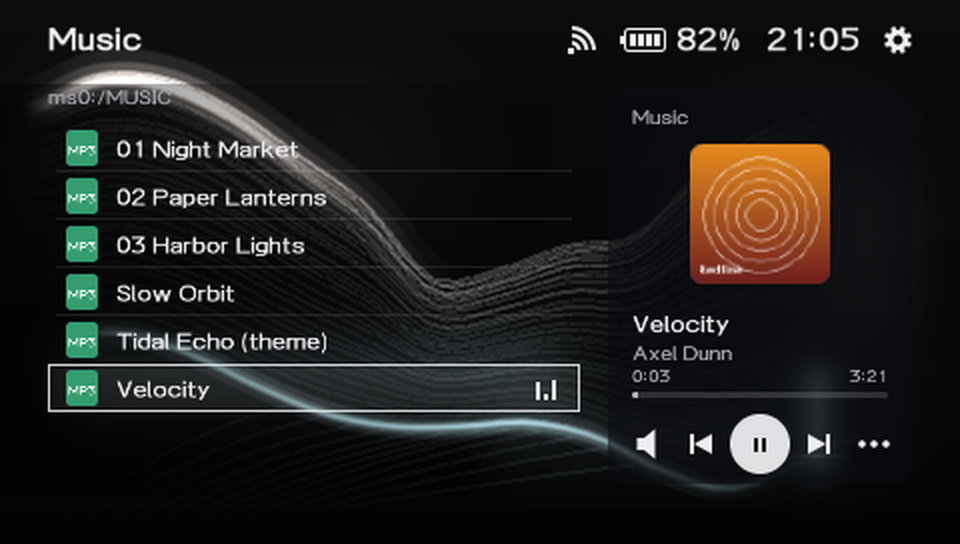
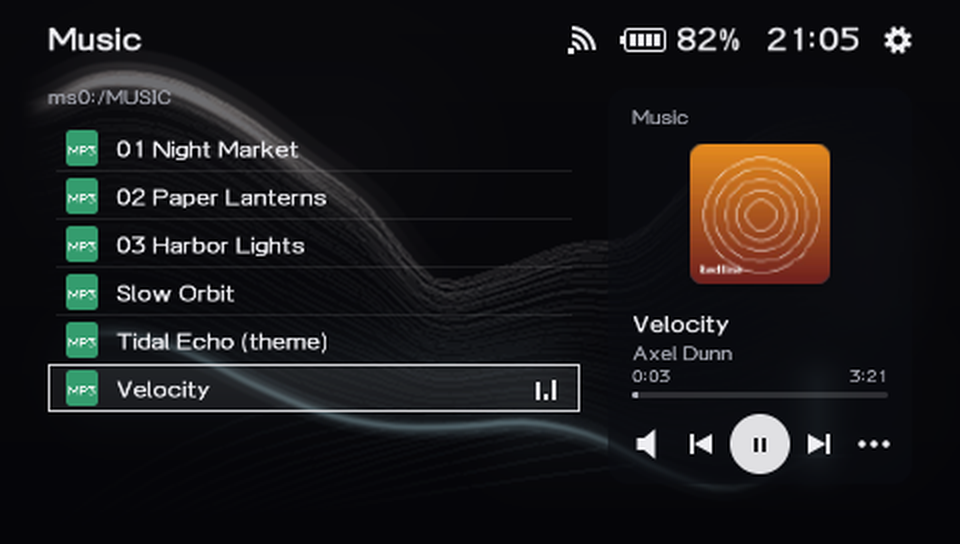
The background goes dark behind an opened card: the whole screen for Music, a little for the Library, bright on the cards
On the cards (Games, Media, and the Library card) the background has its full brightness. When the Music card is opened the whole screen behind it
is darkened, from the top to the bottom (it was only from the folder name down, as a shade behind the list); when the Library card is opened its
background goes darker too (less: its lines would be gone). It fades in a quarter of a second and out again when the card is closed. The top bar
stays bright. README pictures of the Library, the Library with folders and Music are taken again.

Claude-Session: https://claude.ai/code/session_01Ggf7fWbR68TNvgHPZcT9ke

diff --git a/src/ui.c b/src/ui.c
@@ -63,6 +63,9 @@
 #define BG_DELAY   0.18f /* stå still så här länge innan bakgrunden laddas */
 #define BG_FADE    3.5f  /* övertoningshastighet (1/s) */
 #define BG_DIP     8.0f  /* the dip to black while the background under the pictures is swapped (1/s: 0.125 s down, 0.125 s up) */
+#define DIM_SPEED 4.0f /* how fast the background goes dark behind an opened card (Library, Music) and bright again: 1 / 4 s */
+#define DIM_ALPHA_MUSIC 150   /* how dark the open Music screen is: the colour (8, 8, 12) at this strength of 255, as the old Music tab had it */
+#define DIM_ALPHA_LIBRARY 100 /* ... and the open Library: its background is made of fine lines on black, which a stronger darkening would take away altogether */
 #define LAUNCH_LEN 0.45f
 
 #define CLEAR_COLOR RGBA(10, 10, 14, 255)
@@ -1160,6 +1163,9 @@ int ui_update(Ui *ui, const UiInput *in, float dt)
     ui->tab_anim = clampf(ui->tab_anim + dt * 4.0f, 0, 1);
     if (ui->tab_anim >= 1)
         ui->lib_calm = 0; /* (a later change of the Library's cards, a new sort, comes up out of the dark as before) */
+    if (ui->tab == TAB_LIBRARY || ui->tab == TAB_MUSIC)
+        ui->dim_alpha = ui->tab == TAB_MUSIC ? DIM_ALPHA_MUSIC : DIM_ALPHA_LIBRARY;
+    ui->dim = clampf(ui->dim + (ui->tab == TAB_LIBRARY || ui->tab == TAB_MUSIC ? 1 : -1) * dt * DIM_SPEED, 0, 1); /* the background goes dark when a card is opened, and bright again when it is closed */
     if (ui->toast_time > 0)
         ui->toast_time -= dt;
     sort_by_size_again(ui, dt);
@@ -1420,6 +1426,15 @@ int ui_update(Ui *ui, const UiInput *in, float dt)
 }
 
 /* --- ritning --- */
+
+/* A card that is opened (the Library card, the Music card) darkens the whole background behind it, all the way from the top of the screen: the cards of Games and Media have the
+ * background at full brightness, the screen that opens from them has it dark (so that the lines of the background do not run across the names), and it goes dark and bright again
+ * in a quarter of a second. The top bar is drawn over it (the tabs, the clock, the battery and the cog wheel stay bright). */
+static void draw_dim(const Ui *ui)
+{
+    if (ui->dim > 0)
+        gfx_rect(0, 0, SCREEN_W, SCREEN_H, RGBA(8, 8, 12, (int)(ui->dim_alpha * smooth(ui->dim))));
+}
 
 static void draw_background(Ui *ui)
 {
@@ -2126,6 +2141,7 @@ void ui_draw(Ui *ui)
 {
     gfx_begin(CLEAR_COLOR);
     draw_background(ui);
+    draw_dim(ui);
     draw_top_bar(ui);
     if (ui->tab == TAB_MUSIC) {
         draw_music(ui);

diff --git a/src/ui.h b/src/ui.h
@@ -74,6 +74,8 @@ typedef struct {
     int bg_lib;          /* 1: under the pictures lies the Library's own background (Library card of Games, the Library), 0: the theme's surface */
     float bg_dip;        /* 0→1→0: a dip to black while the one is swapped for the other (only one of the two fits in video memory at a time) */
     int lib_calm;        /* 1: the Library opened on its own background already (from its card): nothing comes up out of the dark */
+    float dim;           /* 0→1: how dark the background is behind a screen that was opened from a card (the Library, Music): 0 on the cards themselves (Games, Media, the Library card), 1 in the open screen */
+    int dim_alpha;       /* how dark "1" is: of the screen that was opened last (kept while it fades out again) */
     float still;         /* sekunder sedan markeringen flyttades */
 
     /* titeln bredvid valt kort, anpassad till bredden */

diff --git a/src/musicui.c b/src/musicui.c
@@ -748,7 +748,6 @@ void musicui_mini_draw(MusicUi *m)
 
 void musicui_draw(MusicUi *m, float a, float slide)
 {
-    gfx_gradient_h(0, 42, 312, 206, RGBA(0, 0, 0, (int)(110 * a)), RGBA(0, 0, 0, 0)); /* a shade behind the list: the lines of the background do not cross the names */
     draw_list(m, a, slide);
     draw_player(m, PANEL_X, PANEL_Y + slide, a, m->focus && !m->popup);
     draw_popup(m);

diff --git a/docs/DEVELOPER-NOTES.md b/docs/DEVELOPER-NOTES.md
@@ -24,6 +24,11 @@ into psp5 instead of the XMB.
 
 The changes after 1.2.0 are noted here; the list for users is under *Unreleased* in `CHANGELOG.md`. When the next version is released, this section becomes *Version x.y.z* and a new *Unreleased* one is put above it.
 
+- **The background goes dark behind an opened card** (`ui.c` `ui->dim`, `ui->dim_alpha`, `draw_dim()`, `DIM_SPEED`, `DIM_ALPHA_MUSIC`, `DIM_ALPHA_LIBRARY`; `musicui.c` `musicui_draw()`; on request: "make the darkening happen behind the whole open Music card instead of just from ms0:/Music down ... for Library card make it so that the background also is full brightness at the beginning and then turns darker when Library card is opened")
+  - *Before:* the Music screen had a shade behind its list only (`gfx_gradient_h(0, 42, 312, 206, ...)`: from the line with the folder name down, alpha 110 fading to 0 at x 312), so the lamp's light ran bright across the top of the screen; the Library was not darkened at all.
+  - *Now:* `ui->dim` goes 0 → 1 at 4 a second (`DIM_SPEED`: 15 frames) while the tab is `TAB_LIBRARY` or `TAB_MUSIC`, and back to 0 otherwise; `draw_dim()` lays one rectangle over the whole screen, the colour (8, 8, 12), alpha `dim_alpha * smooth(dim)` (150 for Music, the value the old Music tab had; 100 for the Library, whose lines on black would be gone under more), after the background and before the top bar, so the tabs, the clock and the battery stay bright. `dim_alpha` is set from the screen that is open and kept while it fades out. The shade in `musicui_draw()` is gone. The cards of Games and Media and the Library card of Games have the background as it was, at full brightness; the first update of a press still has the old tab, so the darkening moves from the second update on. One more full-screen rectangle in the two open screens (one draw call; the old Music tab had one too).
+  - *Tests* (private): `ui/menu_test.c` new block "the darkening behind an opened card" (in the Music-only part too: 225 checks there): the Media tab and the Library card have the background exactly as `theme_backdrop_media` / `theme_backdrop_library` draw it (3 themes), the opened Music screen has it under exactly 150 / 255 of (8, 8, 12) over the whole left strip from y 0 to 271 (also half way through the fade: 75 / 255), the opened Library 100 / 255, the speed (4 a second, 15 frames, never past 0 or 1, the strength kept while it fades out), and the Library card at full brightness again afterwards; `STRIP_DIFF` and the "Library shows its background when it has settled" check expect the darkening (`DIM_A()`). *Mutation checks* of the new lines of `ui.c` (38 changes): 35 caught; the 3 that survive change nothing (a rectangle that starts at x -1, a strength of 0 drawn). The README pictures `library.png`, `library-folders.png` and `music.png` were taken again.
+
 - **Media tab, the Music screen, the player and the sound button** (`ui.c`, `ui.h`, `musicui.c` / `musicui.h` (new), `music.c` / `music.h` (rewritten), `main.c`, `osd.c`, `loader.c`, `theme.c`, `icons.c`, `gfx.c`, `lang.c`, `home.h`; on request, with three pictures of the maintainer's: "Media.png" (the background), "Music Icon.png" (the note) and "Music Player.png" (the player))
   - *The tabs.* `TAB_GAMES, TAB_MEDIA, TAB_LIBRARY, TAB_MUSIC`. The top bar has two tabs (Games, Media); the Library and Music are *screens* (`is_screen()`: the top bar shows their name and the cog wheel, L / R do nothing, ○ goes back). The Media tab is a row of cards like Games' (`row_tab`: the card, the *Open* button under it, the name next to it) with one card, `HOME_MEDIA_MUSIC` (-4: a negative id, which the loader of the saved Home ignores). ✕ on it opens `TAB_MUSIC`; ○ on the Music screen from the top goes back to `TAB_MEDIA`.
   - *The background.* `theme.c` `med_scene()` draws it once into the video-memory snapshot (kind 2 of `scene_ready()`, beside the surface (0) and the Library (1); `Ui.bg_lib` is 0 / 1 / 2): the curves `MED_TOP[]` and `MED_BOT[]` were measured from the reference picture, the colours come from the theme (`Theme.glow` for the lamp and the high light, `Theme.haze`, `Theme.beam` for the line), as the Library's do. The Media tab and the Music screen share it (no dip between them: `lib_calm`). The reference is only a stylization here: the mock mixes colours additively by alpha, so what the PSP's blending gives was not seen.

diff --git a/CHANGELOG.md b/CHANGELOG.md
@@ -21,7 +21,10 @@ Newest first. Changes that are not in a release yet are under *Unreleased*.
   the PSP's own music format, through the library of the firmware). A file that cannot be played is skipped. **Not in yet: AAC (`.m4a`, `.aac`) and WMA** (the firmware has an AAC decoder, but it can't be used safely without a PSP to try it on), and Ogg and FLAC, which the PSP has no decoder for.
   **None of the decoding has been tried on a real PSP yet:** it was tested against stand-ins of the PSP's libraries, so the player's own logic is checked, not the sound of a codec.
 - The old Music screen's code was replaced: the scan of the whole card for tags is gone (only the song that plays has its tags read), and the Music tab's list, position bar and keys went with it.
-- **README pictures:** new ones of the Media tab and the Music screen (taken in the PPSSPP emulator, with a song of the invented demo stick playing), and four others (Games, Options, Theme, Power menu) taken again because the top bar says *Media* now.
+- **The background goes dark behind a card that is opened, and bright again when it is closed.** On the cards (Games, Media, and the Library card of Games) the background has its full brightness; when the **Music** card is opened
+  the whole screen behind it is darkened, from the top of the screen to the bottom (it was only from the folder name down, as a shade behind the list), and when the **Library** card is opened its background goes darker too (less: its lines
+  would be gone). It fades in a quarter of a second, and out again when you go back. The top bar stays bright.
+- **README pictures:** new ones of the Media tab and the Music screen (taken in the PPSSPP emulator, with a song of the invented demo stick playing), and six others (Games, Options, Theme, Power menu, Library, Library with folders) taken again because the top bar says *Media* now, or because the opened Library is darker now.
 
 ### Memory
 
@@ -76,7 +79,7 @@ Newest first. Changes that are not in a release yet are under *Unreleased*.
 - **The Library's background is softer.** The thin lines of its picture (the fine lines of the petal and the fan, and the big rings at the lower right) were one pixel wide and showed the steps of the pixel grid, so they looked sharp and dotted. The picture is now shown a little smoothed
   (every pixel is the mean of 2 x 2 pixels of it, and the picture sits half a pixel further down and to the right), so the lines are continuous and soft. The four rays of the little star are soft lines too. The picture is still made once and kept in video memory, so this costs nothing
   per frame but the star's rays (about 2 KB of the display list); the backgrounds of the themes are as they were. This is new and nobody has seen it on a real PSP yet: if the Library's background looks wrong on yours, please open an issue and tell us your PSP model and your ARK version.
-- **The Library has a background of its own.** The picture of a game is **not** shown behind the Library any more (the Library is not darkened either): in every theme it has the same drawn picture on black, at the
+- **The Library has a background of its own.** The picture of a game is **not** shown behind the Library any more (the Library card has it at full brightness, and the opened Library darkens it, see *Media and Music*): in every theme it has the same drawn picture on black, at the
   right: a twisted ribbon of fine dotted lines, a fan of lines to a point, big rings at the bottom right, a little twinkling star and some specks of dust, with a copper light along its edges. It is drawn by the program
   (no picture file), like the themes and icons. The colours follow your theme: the black has a trace of the theme's own dark, the lines carry some of its light, and the glow is the gold of the PS5 colours (the
   accent colour of PS1 to PS4). It fades up from black with the cards when you open the Library. *Show Game art* now only matters for the Games tab. The picture is made once and kept in video memory, as the themes are, so
